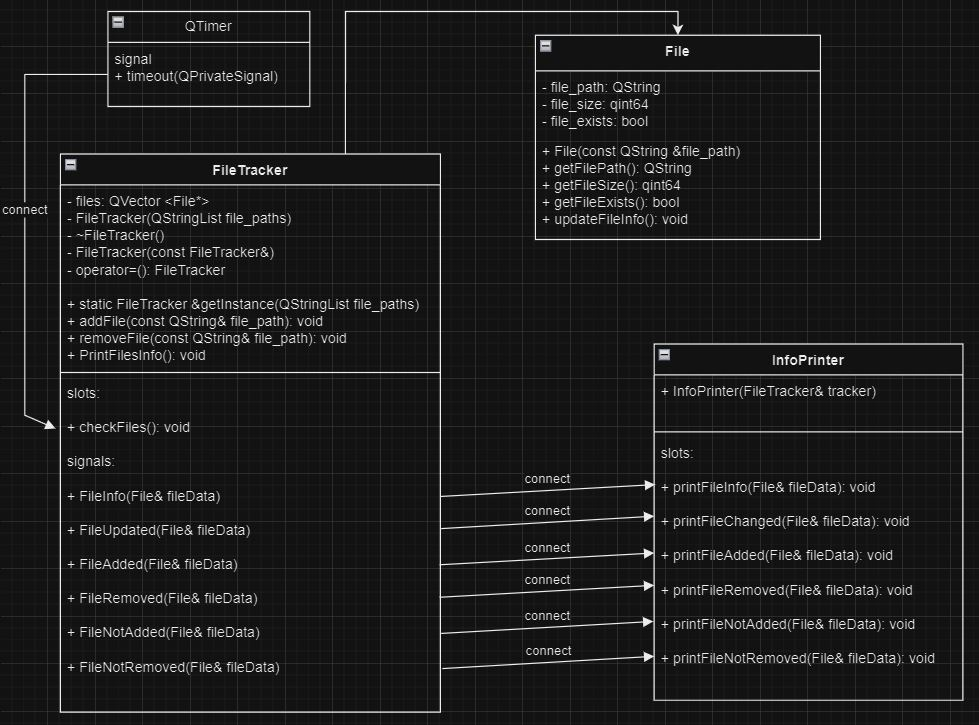
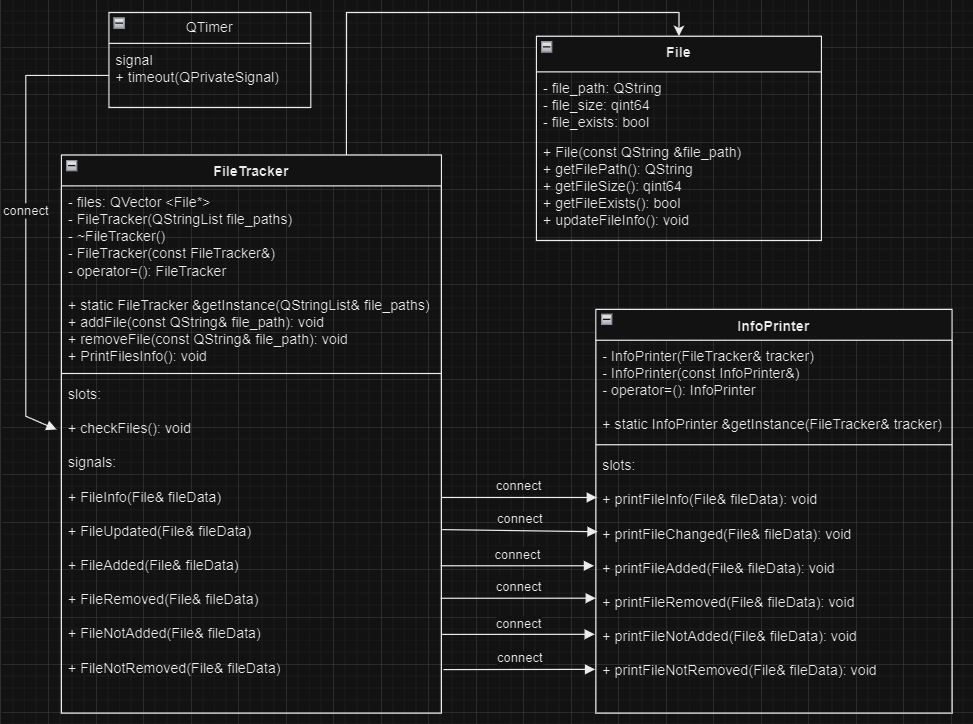
Для класса InfoPrinter реализовал паттерн одиночку
переопределил копирование и присвоение, обновил UML

Changed region(s): [[0.0, 0.0, 0.9866, 1.0], [0.0617, 0.8204, 0.2775, 0.8812], [0.0617, 0.9116, 0.3083, 0.942]]

diff --git a/File_Tracker/InfoPrinter.h b/File_Tracker/InfoPrinter.h
@@ -6,9 +6,9 @@
 
 class InfoPrinter : public QObject {
     Q_OBJECT
-public:
     InfoPrinter(FileTracker &tracker) {
         setlocale(LC_ALL, "Russian");
+
         connect(&tracker, &FileTracker::FileInfo, this, &InfoPrinter::printFileInfo);
         connect(&tracker, &FileTracker::FileUpdated, this, &InfoPrinter::printFileChanged);
 
@@ -17,8 +17,15 @@ public:
 
         connect(&tracker, &FileTracker::FileNotAdded, this, &InfoPrinter::printFileNotAdded);
         connect(&tracker, &FileTracker::FileNotRemoved, this, &InfoPrinter::printFileNotRemoved);
-
     }
+    InfoPrinter (const InfoPrinter&);
+    InfoPrinter& operator=(InfoPrinter const&);
+public:
+    static InfoPrinter &getInstance(FileTracker &tracker) {
+        static InfoPrinter instance(tracker);
+        return instance;
+    }
+
 public slots:
     void printFileInfo(File& fileData);
     void printFileChanged(File& fileData);

diff --git a/File_Tracker/main.cpp b/File_Tracker/main.cpp
@@ -11,7 +11,7 @@ int main(int argc, char *argv[]) {
               << "D:/Projects/TRPO_labs/lab2/file_tracker/File_Tracker/testFiles/file2.docx" \
         ;//<< "D:/Projects/TRPO_labs/lab2/file_tracker/File_Tracker/testFiles/file3.png";
     FileTracker &fileWatcher = FileTracker::getInstance(filePaths);
-    InfoPrinter printer(fileWatcher);
+    InfoPrinter &printer = InfoPrinter::getInstance(fileWatcher);
     fileWatcher.PrintFilesInfo();
 
     fileWatcher.addFile("D:/Projects/TRPO_labs/lab2/file_tracker/File_Tracker/testFiles/file3.png");

diff --git a/File_Tracker/FileTracker.h b/File_Tracker/FileTracker.h
@@ -10,13 +10,13 @@ class FileTracker : public QObject
 {
     Q_OBJECT
     QVector <File*> files;
-    FileTracker(QStringList file_paths);
+    FileTracker(QStringList &file_paths);
     ~FileTracker() { qDeleteAll(files); }
     FileTracker (const FileTracker&);
     FileTracker& operator=(FileTracker const&);
 
 public:
-    static FileTracker &getInstance(QStringList file_paths) {
+    static FileTracker &getInstance(QStringList &file_paths) {
         static FileTracker instance(file_paths);
         return instance;
     }

diff --git a/File_Tracker/FileTracker.cpp b/File_Tracker/FileTracker.cpp
@@ -2,7 +2,7 @@
 #include <QDebug>
 
 
-FileTracker::FileTracker(QStringList file_paths)
+FileTracker::FileTracker(QStringList &file_paths)
 {
     for (const QString &filePath : file_paths) {
         File *fileData = new File(filePath);
